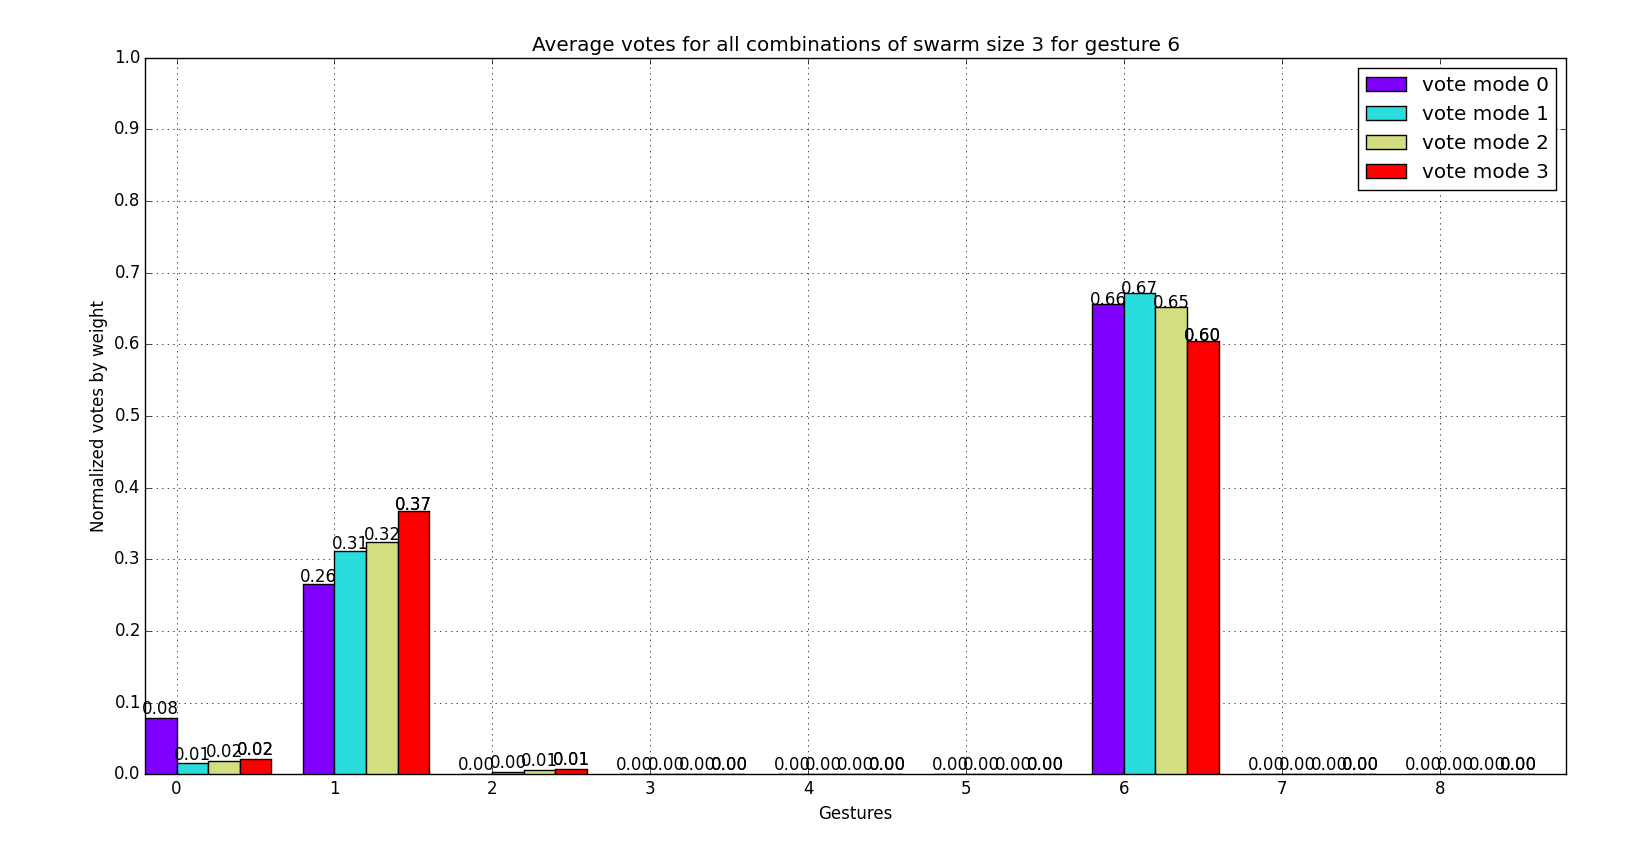
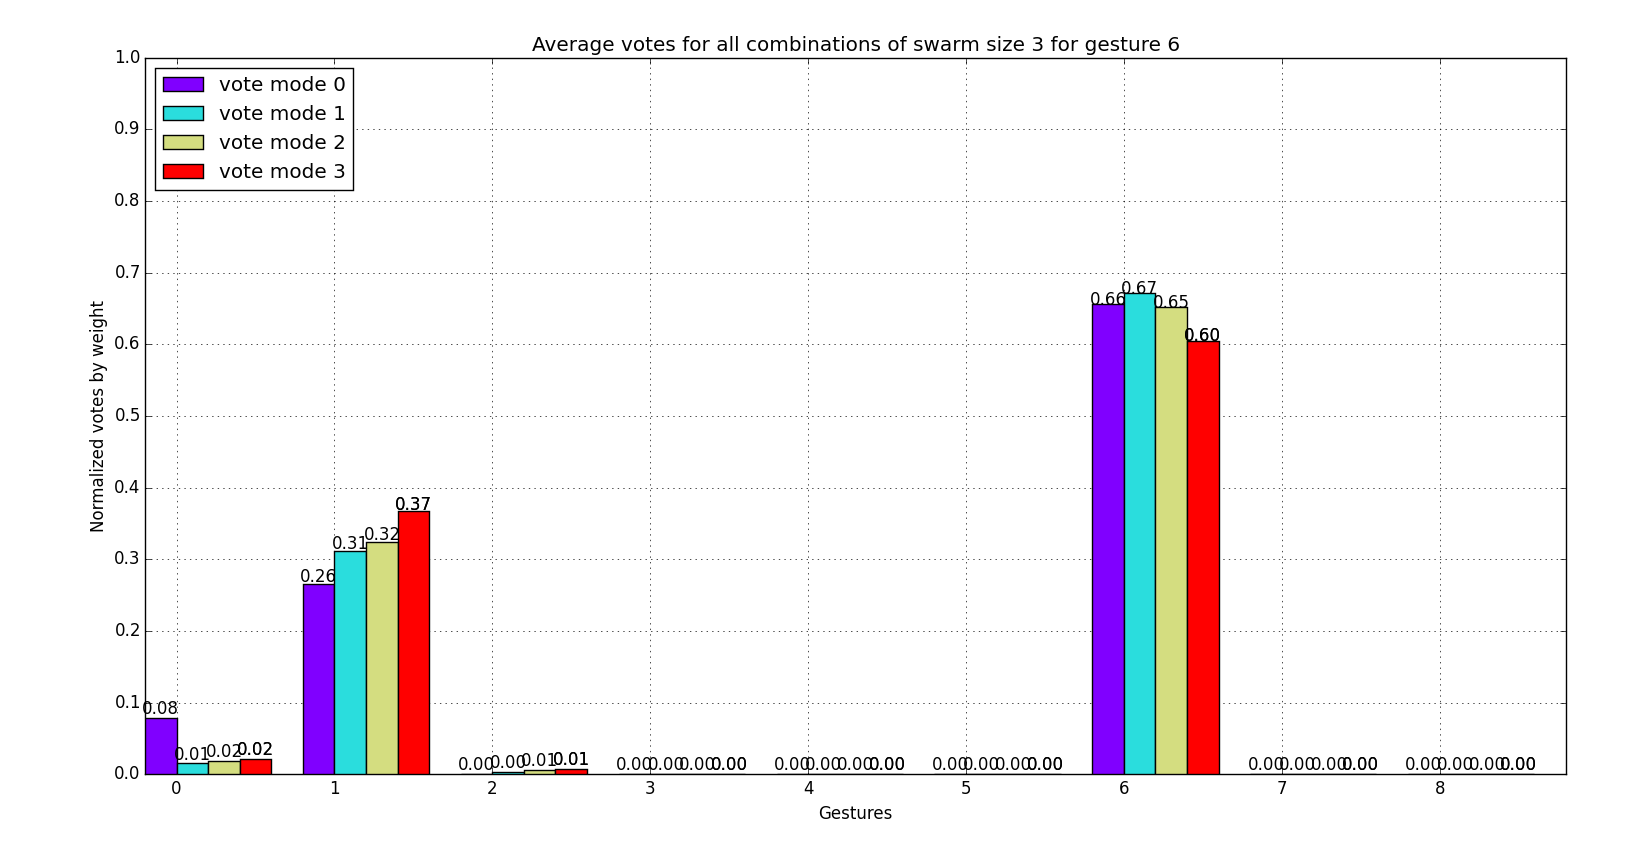
Combined classifiers for single-arm data

Changed region(s): [[0.092, 0.0624, 0.2147, 0.2497], [0.8282, 0.0624, 0.9509, 0.2497]]

diff --git a/recognition/dataProcessing.py b/recognition/dataProcessing.py
@@ -127,7 +127,9 @@ def runSVM( dataSet, dataLabels, label_names, testSet, testLabels, title = "Lear
     
     print "Fitting classifier to data"
     
+    flag = 0
     if dataSet.ndim==1:  # Single arm data
+        flag = 1
         clf = SVC(C=0.75)
         dataSet = dataSet.reshape(-1, 1)
         testSet = testSet.reshape(-1, 1)
@@ -140,15 +142,15 @@ def runSVM( dataSet, dataLabels, label_names, testSet, testLabels, title = "Lear
             
         # --- Editing data for same arm position data ---
         
-        trimmedLabels = []
-        rejectIds = []
+        lookupIds = {}
         for idx,label in enumerate(label_names):
-            if label not in trimmedLabels:
-                trimmedLabels.append(label)
-                # TODO:  keep dataSet[idx]
-            else:
-                rejectIds.append(idx)
-                # TODO: append dataSet[idx] onto dataSet[idx of label in trimmedLabels]
+            if label not in lookupIds:
+                lookupIds.setdefault(label, [])
+                # TODO:  keep all labels together, not just pairs 
+#                firstIdx = label_names.index(label)
+            lookupIds[label].append(idx)
+                # TODO: change dataLabel for idx into firstIdx ?
+                # TODO: OR - change voting method?? 1-arm votes actually count for all possibilities?
         
         
     else:  # 2 arm data
@@ -237,6 +239,16 @@ def runSVM( dataSet, dataLabels, label_names, testSet, testLabels, title = "Lear
     
 #    print classification_report(testLabels[:,0], predictions, target_names=label_names)
     
+    
+    if flag:  # Single arm data
+        for idx,pred in enumerate(predictions):
+#            if pred in lookupIds:
+            label = label_names[int(pred)]
+            if len(lookupIds[label])>1:
+                predictions[idx] = int( ''.join(str(e) for e in lookupIds[label]) )
+    
+    
+    
 #    testLabels = np.append(testLabels, predictions, axis=1)
     return np.concatenate((predictions.reshape(-1,1).astype(int), confidence), axis=1)
      
@@ -255,8 +267,8 @@ def processFiles(files, vidDict, num_points, mode="structured"):
     
 #    XMAX=639
 #    YMAX=479
-    XMID=320
-    YMID=240
+#    XMID=320
+#    YMID=240
     
     
     # should these be 1 or (1,1)...?
@@ -685,8 +697,14 @@ def plotMultiVoteChart(gestureData, num_gestures=9, title="Vote chart", mode=3, 
                     
                 for testPoint in swarm:
                     [act,x,y,res,conf] = testPoint
-                    votes[swarmID, res] += 1
-                    weights[swarmID, res] += abs(conf)
+                    if type(res)=='str' or res>=num_gestures:
+                        res = str(int(res))
+                        for e in res:
+                           votes[swarmID, int(e)] += 1
+                           weights[swarmID, int(e)] += abs(conf) 
+                    else:
+                        votes[swarmID, res] += 1
+                        weights[swarmID, res] += abs(conf)
             
             
                 if flag!="average":
@@ -804,7 +822,10 @@ def plotMultiVoteChart(gestureData, num_gestures=9, title="Vote chart", mode=3, 
             plt.ylabel('Normalized votes')
             plt.xlabel('Gestures')
             if flag!="constructed":
-                plt.legend()
+                if gesture > num_gestures/2:
+                    plt.legend(loc=2)
+                else:
+                    plt.legend()
             plt.tight_layout()
         
         if mode==2:
@@ -843,7 +864,10 @@ def plotMultiVoteChart(gestureData, num_gestures=9, title="Vote chart", mode=3, 
             plt.ylabel('Normalized votes by weight')
             plt.xlabel('Gestures')
             if flag!="constructed":
-                plt.legend()
+                if gesture > num_gestures/2:
+                    plt.legend(loc=2)
+                else:
+                    plt.legend()
             plt.tight_layout()
         
         plt.show()
@@ -1045,22 +1069,22 @@ if __name__ == "__main__":
         # ----- L -----
         print "\nRunning classification for left arm data"
 #        label_names = ["(B)PQRS","(D)JV","EF(G)","AKL(M)N"]  # No longer iterator
-        label_names = ["BPQRS","DJV","EFG","AKLMN","AKLMN","CTUY","EFG","DJV","AKLMN"]
+        label_names_L = ["BPQRS","DJV","EFG","AKLMN","AKLMN","CTUY","EFG","DJV","AKLMN"]
         title = "Learning Curves for left arm data"
-        testResultL = runSVM(dataSetL, dataLabelsL, label_names, testSetL, testLabelsL, title=title, mode=voteMode)
+        testResultL = runSVM(dataSetL, dataLabelsL, label_names_L, testSetL, testLabelsL, title=title, mode=voteMode)
         
         # ----- LR -----
         print "\nRunning classification for both arm data"
-        label_names = ["B","D","G","M","A","C","F","J","N"]
+        label_names_LR = ["B","D","G","M","A","C","F","J","N"]
         title = "Learning Curves for both arm data"
-        testResultLR = runSVM(dataSetLR, dataLabelsLR, label_names, testSetLR, testLabelsLR, title=title, mode=voteMode)
+        testResultLR = runSVM(dataSetLR, dataLabelsLR, label_names_LR, testSetLR, testLabelsLR, title=title, mode=voteMode)
         
         # ----- R -----
         print "\nRunning classification for right arm data"
 #        label_names = ["A(B)CD","ABC(D)","(G)NSV","FJ(M)RY"]
-        label_names = ["ABCD","ABCD","GNSV","FJMRY","ABCD","ABCD","FJMRY","FJMRY","GNSV"]
+        label_names_R = ["ABCD","ABCD","GNSV","FJMRY","ABCD","ABCD","FJMRY","FJMRY","GNSV"]
         title = "Learning Curves for right arm data"
-        testResultR = runSVM(dataSetR, dataLabelsR, label_names, testSetR, testLabelsR, title=title, mode=voteMode)
+        testResultR = runSVM(dataSetR, dataLabelsR, label_names_R, testSetR, testLabelsR, title=title, mode=voteMode)
     
 
         
@@ -1069,7 +1093,7 @@ if __name__ == "__main__":
                 
         # Sort by gesture, position, distance
         testData = np.concatenate((testLabels, testResults),axis=1)  # act, pos, dist, res, conf
-        testData.view('i8,i8,f8,i8,f8').sort(order=['f0','f2','f1'], axis=0)
+        testData.view('i8,i8,f8,i8,f8').sort(order=['f0','f2','f1'], axis=0)  # sort by label, pos, dist
     #    testData = testLabels.copy()
     #    testLabels[:,0] = (testLabels[:,0]==testResults[:,0])  # Which results were correct
         
